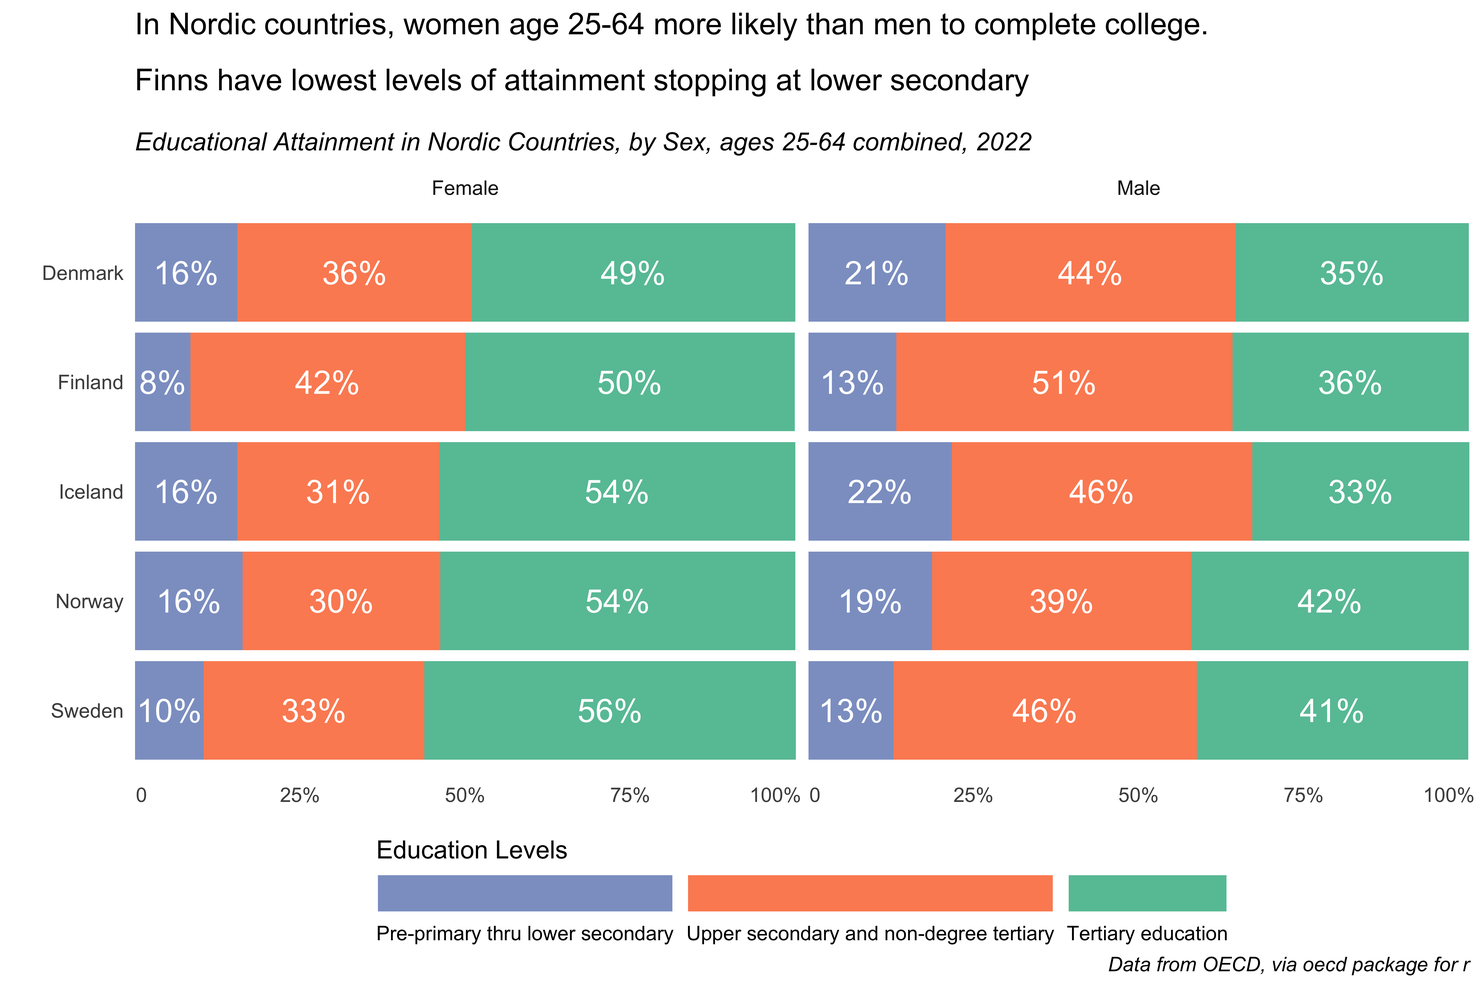
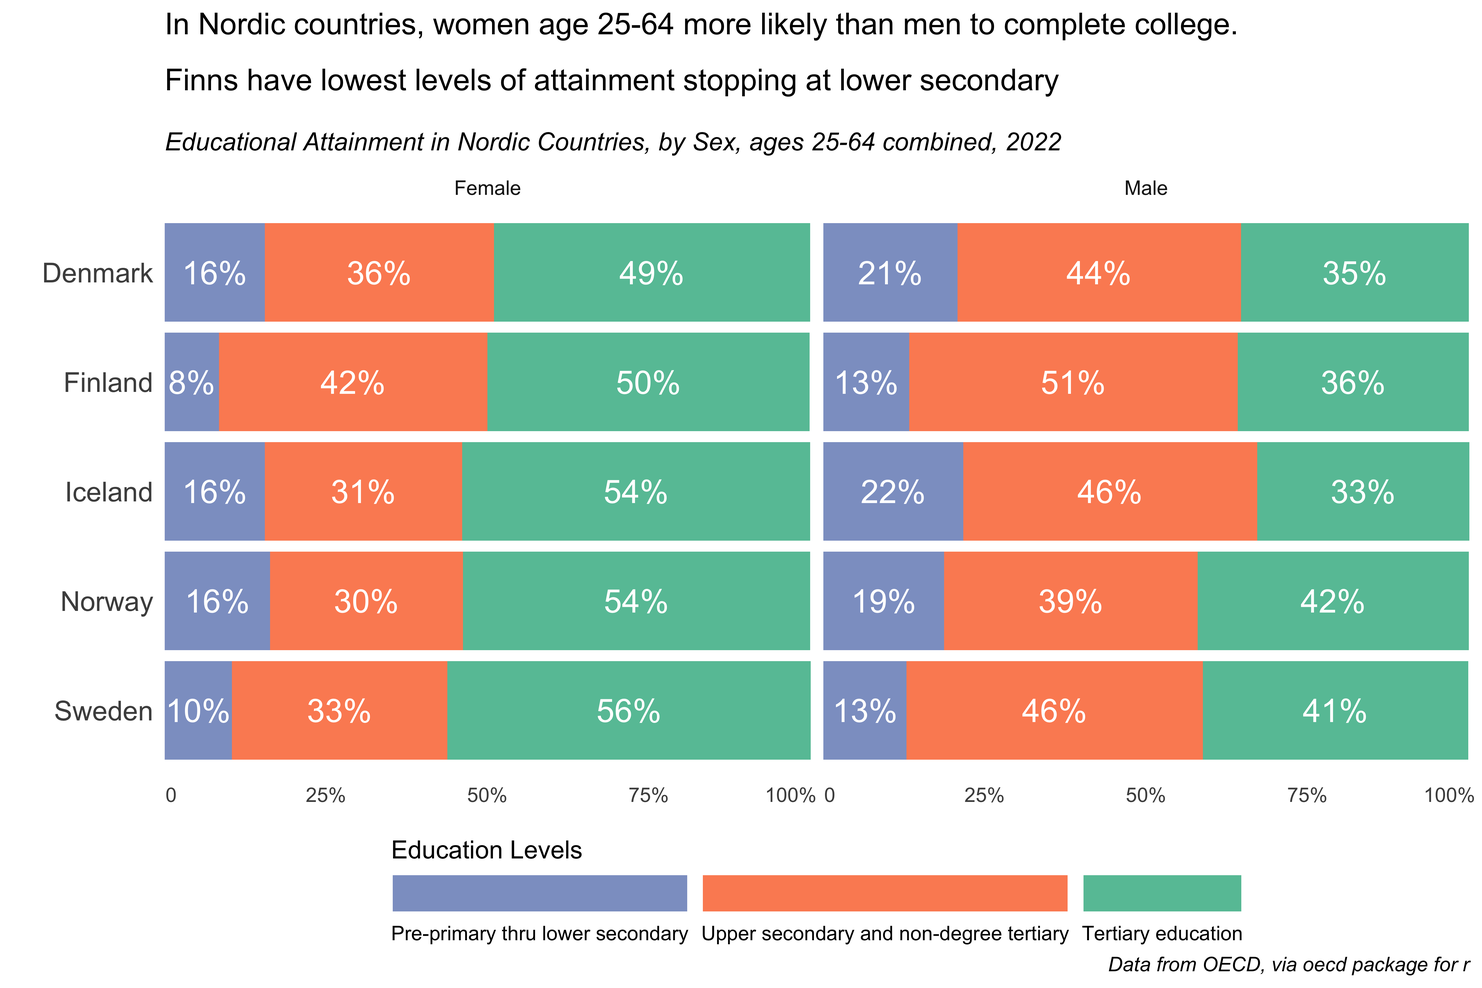
prompt 6 edits

diff --git a/_site/posts/30-day-chart-challenge-2024/index.html b/_site/posts/30-day-chart-challenge-2024/index.html
@@ -415,7 +415,7 @@ cookieconsent.run({
 <span id="cb3-5"><a href="#cb3-5" aria-hidden="true" tabindex="-1"></a>    <span class="fu">rename</span>(<span class="at">year =</span> TIME_PERIOD)</span>
 <span id="cb3-6"><a href="#cb3-6" aria-hidden="true" tabindex="-1"></a><span class="co">#&gt; </span></span>
 <span id="cb3-7"><a href="#cb3-7" aria-hidden="true" tabindex="-1"></a>indexed <span class="dv">0</span>B <span class="cf">in</span>  <span class="dv">0</span>s, <span class="dv">0</span>B<span class="sc">/</span>s</span>
-<span id="cb3-8"><a href="#cb3-8" aria-hidden="true" tabindex="-1"></a>indexed <span class="fl">1.00</span>TB <span class="cf">in</span>  <span class="dv">0</span>s, <span class="fl">2.51</span>PB<span class="sc">/</span>s</span>
+<span id="cb3-8"><a href="#cb3-8" aria-hidden="true" tabindex="-1"></a>indexed <span class="fl">1.00</span>TB <span class="cf">in</span>  <span class="dv">0</span>s, <span class="fl">2.62</span>PB<span class="sc">/</span>s</span>
 <span id="cb3-9"><a href="#cb3-9" aria-hidden="true" tabindex="-1"></a>                                                                              </span>
 <span id="cb3-10"><a href="#cb3-10" aria-hidden="true" tabindex="-1"></a></span>
 <span id="cb3-11"><a href="#cb3-11" aria-hidden="true" tabindex="-1"></a><span class="co"># make the plots</span></span>
@@ -805,53 +805,57 @@ cookieconsent.run({
 <span id="cb8-18"><a href="#cb8-18" aria-hidden="true" tabindex="-1"></a></span>
 <span id="cb8-19"><a href="#cb8-19" aria-hidden="true" tabindex="-1"></a><span class="co"># get metadata - helpful to create labels for factors.</span></span>
 <span id="cb8-20"><a href="#cb8-20" aria-hidden="true" tabindex="-1"></a><span class="co"># see package documentation on github </span></span>
-<span id="cb8-21"><a href="#cb8-21" aria-hidden="true" tabindex="-1"></a>oecd_metadata <span class="ot">&lt;-</span> <span class="fu">get_data_structure</span>(edattdata)</span>
-<span id="cb8-22"><a href="#cb8-22" aria-hidden="true" tabindex="-1"></a></span>
-<span id="cb8-23"><a href="#cb8-23" aria-hidden="true" tabindex="-1"></a><span class="co"># gets labels for country codes</span></span>
-<span id="cb8-24"><a href="#cb8-24" aria-hidden="true" tabindex="-1"></a>datalabs_ct <span class="ot">&lt;-</span> oecd_metadata<span class="sc">$</span>CL_REGIONAL <span class="sc">%&gt;%</span></span>
-<span id="cb8-25"><a href="#cb8-25" aria-hidden="true" tabindex="-1"></a>    <span class="fu">rename</span>(<span class="at">COUNTRY =</span> id)</span>
-<span id="cb8-26"><a href="#cb8-26" aria-hidden="true" tabindex="-1"></a></span>
-<span id="cb8-27"><a href="#cb8-27" aria-hidden="true" tabindex="-1"></a><span class="co"># keep only necessary vars, change some to factors &amp; add labels</span></span>
-<span id="cb8-28"><a href="#cb8-28" aria-hidden="true" tabindex="-1"></a>oecd <span class="ot">&lt;-</span> oecd1 <span class="sc">%&gt;%</span></span>
-<span id="cb8-29"><a href="#cb8-29" aria-hidden="true" tabindex="-1"></a>    <span class="fu">mutate</span>(<span class="at">EDUCATION_LEV =</span></span>
-<span id="cb8-30"><a href="#cb8-30" aria-hidden="true" tabindex="-1"></a>        <span class="fu">factor</span>(EDUCATION_LEV,</span>
-<span id="cb8-31"><a href="#cb8-31" aria-hidden="true" tabindex="-1"></a>            <span class="at">levels =</span> <span class="fu">c</span>(<span class="st">"ISCED11_0T2"</span>, <span class="st">"ISCED11_3_4"</span>, <span class="st">"ISCED11_5T8"</span>),</span>
-<span id="cb8-32"><a href="#cb8-32" aria-hidden="true" tabindex="-1"></a>            <span class="at">labels =</span> <span class="fu">c</span>(<span class="st">"Pre-primary thru lower secondary"</span>,</span>
-<span id="cb8-33"><a href="#cb8-33" aria-hidden="true" tabindex="-1"></a>                        <span class="st">"Upper secondary and non-degree tertiary"</span>, <span class="st">"Tertiary education"</span>))) <span class="sc">%&gt;%</span></span>
-<span id="cb8-34"><a href="#cb8-34" aria-hidden="true" tabindex="-1"></a>    <span class="fu">mutate</span>(<span class="at">SEX =</span> <span class="fu">case_when</span>(SEX <span class="sc">==</span> <span class="st">"M"</span> <span class="sc">~</span> <span class="st">"Male"</span>, SEX <span class="sc">==</span> <span class="st">"F"</span> <span class="sc">~</span> <span class="st">"Female"</span>)) <span class="sc">%&gt;%</span></span>
-<span id="cb8-35"><a href="#cb8-35" aria-hidden="true" tabindex="-1"></a>    <span class="fu">mutate</span>(<span class="at">pct_attain2 =</span> <span class="fu">as.numeric</span>(ObsValue)) <span class="sc">%&gt;%</span></span>
-<span id="cb8-36"><a href="#cb8-36" aria-hidden="true" tabindex="-1"></a>    <span class="fu">mutate</span>(<span class="at">pct_attain =</span> pct_attain2 <span class="sc">/</span> <span class="dv">100</span>) <span class="sc">%&gt;%</span></span>
-<span id="cb8-37"><a href="#cb8-37" aria-hidden="true" tabindex="-1"></a>    <span class="co"># join to have labels instead of country abbrvs</span></span>
-<span id="cb8-38"><a href="#cb8-38" aria-hidden="true" tabindex="-1"></a>    <span class="fu">left_join</span>(datalabs_ct) <span class="sc">%&gt;%</span></span>
-<span id="cb8-39"><a href="#cb8-39" aria-hidden="true" tabindex="-1"></a>    <span class="fu">select</span>(<span class="at">country =</span> label,  <span class="at">year =</span> TIME_PERIOD, SEX, EDUCATION_LEV, pct_attain, pct_attain2) <span class="sc">%&gt;%</span></span>
-<span id="cb8-40"><a href="#cb8-40" aria-hidden="true" tabindex="-1"></a>    <span class="fu">clean_names</span>()</span>
-<span id="cb8-41"><a href="#cb8-41" aria-hidden="true" tabindex="-1"></a></span>
-<span id="cb8-42"><a href="#cb8-42" aria-hidden="true" tabindex="-1"></a><span class="do">## chart...horizontal stacked bar</span></span>
-<span id="cb8-43"><a href="#cb8-43" aria-hidden="true" tabindex="-1"></a>oecd <span class="sc">%&gt;%</span></span>
-<span id="cb8-44"><a href="#cb8-44" aria-hidden="true" tabindex="-1"></a>    <span class="fu">filter</span>(year <span class="sc">==</span> <span class="st">"2022"</span>) <span class="sc">%&gt;%</span></span>
-<span id="cb8-45"><a href="#cb8-45" aria-hidden="true" tabindex="-1"></a>    <span class="fu">ggplot</span>(<span class="fu">aes</span>(pct_attain, <span class="fu">fct_rev</span>(country), <span class="at">fill =</span> <span class="fu">fct_rev</span>(education_lev))) <span class="sc">+</span></span>
-<span id="cb8-46"><a href="#cb8-46" aria-hidden="true" tabindex="-1"></a>    <span class="fu">geom_bar</span>(<span class="at">stat =</span> <span class="st">"identity"</span>) <span class="sc">+</span></span>
-<span id="cb8-47"><a href="#cb8-47" aria-hidden="true" tabindex="-1"></a>    <span class="fu">scale_x_continuous</span>(<span class="at">expand =</span> <span class="fu">c</span>(<span class="dv">0</span>,<span class="dv">0</span>),</span>
-<span id="cb8-48"><a href="#cb8-48" aria-hidden="true" tabindex="-1"></a>                <span class="at">breaks =</span> <span class="fu">c</span>(.<span class="dv">01</span>, <span class="fl">0.25</span>, <span class="fl">0.50</span>, <span class="fl">0.75</span>, .<span class="dv">97</span>),</span>
-<span id="cb8-49"><a href="#cb8-49" aria-hidden="true" tabindex="-1"></a>                <span class="at">labels =</span> <span class="fu">c</span>(<span class="st">"0"</span>, <span class="st">"25%"</span>, <span class="st">"50%"</span>, <span class="st">"75%"</span>, <span class="st">"100%"</span>)) <span class="sc">+</span></span>
-<span id="cb8-50"><a href="#cb8-50" aria-hidden="true" tabindex="-1"></a>    <span class="fu">facet_wrap</span>(<span class="sc">~</span> sex, <span class="at">nrow =</span> <span class="dv">1</span>) <span class="sc">+</span></span>
-<span id="cb8-51"><a href="#cb8-51" aria-hidden="true" tabindex="-1"></a>    <span class="fu">geom_text</span>(<span class="fu">aes</span>(<span class="at">label =</span> scales<span class="sc">::</span><span class="fu">percent</span>(<span class="fu">round</span>(pct_attain , <span class="dv">2</span>))),</span>
-<span id="cb8-52"><a href="#cb8-52" aria-hidden="true" tabindex="-1"></a>                <span class="at">position =</span> <span class="fu">position_stack</span>(<span class="at">vjust =</span> <span class="fl">0.5</span>),</span>
-<span id="cb8-53"><a href="#cb8-53" aria-hidden="true" tabindex="-1"></a>                <span class="at">color=</span> <span class="st">"white"</span>, <span class="at">vjust =</span> <span class="fl">0.5</span>, <span class="at">size =</span> <span class="dv">5</span>) <span class="sc">+</span></span>
-<span id="cb8-54"><a href="#cb8-54" aria-hidden="true" tabindex="-1"></a>    <span class="fu">labs</span>(<span class="at">title =</span> <span class="st">"In Nordic countries, women age 25-64 more likely than men to complete college.&lt;br&gt;&lt;br&gt;</span></span>
-<span id="cb8-55"><a href="#cb8-55" aria-hidden="true" tabindex="-1"></a><span class="st">             Finns have lowest levels of attainment stopping at lower secondary"</span>,</span>
-<span id="cb8-56"><a href="#cb8-56" aria-hidden="true" tabindex="-1"></a>             <span class="at">subtitle =</span> <span class="st">"&lt;br&gt;*Educational Attainment in Nordic Countries, by Sex, ages 25-64 combined, 2022*"</span>,</span>
-<span id="cb8-57"><a href="#cb8-57" aria-hidden="true" tabindex="-1"></a>             <span class="at">caption =</span> <span class="st">"*Data from OECD, via oecd package for r*"</span>,</span>
-<span id="cb8-58"><a href="#cb8-58" aria-hidden="true" tabindex="-1"></a>             <span class="at">x =</span> <span class="st">""</span>, <span class="at">y =</span> <span class="st">""</span>) <span class="sc">+</span></span>
-<span id="cb8-59"><a href="#cb8-59" aria-hidden="true" tabindex="-1"></a>    <span class="fu">scale_fill_brewer</span>(<span class="at">palette =</span> <span class="st">"Set2"</span>) <span class="sc">+</span></span>
-<span id="cb8-60"><a href="#cb8-60" aria-hidden="true" tabindex="-1"></a>    <span class="fu">theme_minimal</span>() <span class="sc">+</span></span>
-<span id="cb8-61"><a href="#cb8-61" aria-hidden="true" tabindex="-1"></a>    <span class="fu">theme</span>(<span class="at">legend.position =</span> <span class="st">"bottom"</span>, <span class="at">legend.spacing.x =</span> <span class="fu">unit</span>(<span class="dv">0</span>, <span class="st">'cm'</span>),</span>
-<span id="cb8-62"><a href="#cb8-62" aria-hidden="true" tabindex="-1"></a>                <span class="at">legend.key.width =</span> <span class="fu">unit</span>(<span class="fl">1.5</span>, <span class="st">'cm'</span>), <span class="at">legend.margin=</span><span class="fu">margin</span>(<span class="sc">-</span><span class="dv">10</span>, <span class="dv">0</span>, <span class="dv">0</span>, <span class="dv">0</span>),</span>
-<span id="cb8-63"><a href="#cb8-63" aria-hidden="true" tabindex="-1"></a>                <span class="at">plot.title =</span> <span class="fu">element_markdown</span>(), <span class="at">plot.subtitle =</span> <span class="fu">element_markdown</span>(),</span>
-<span id="cb8-64"><a href="#cb8-64" aria-hidden="true" tabindex="-1"></a>                <span class="at">plot.caption =</span> <span class="fu">element_markdown</span>(),</span>
-<span id="cb8-65"><a href="#cb8-65" aria-hidden="true" tabindex="-1"></a>                <span class="at">panel.grid.major =</span> <span class="fu">element_blank</span>(), <span class="at">panel.grid.minor =</span> <span class="fu">element_blank</span>()) <span class="sc">+</span></span>
-<span id="cb8-66"><a href="#cb8-66" aria-hidden="true" tabindex="-1"></a>    <span class="fu">guides</span>(<span class="at">fill =</span> <span class="fu">guide_legend</span>(<span class="at">label.position =</span> <span class="st">"bottom"</span>, <span class="at">reverse =</span> <span class="cn">TRUE</span>,</span>
-<span id="cb8-67"><a href="#cb8-67" aria-hidden="true" tabindex="-1"></a>                <span class="at">title =</span> <span class="st">"Education Levels"</span>, <span class="at">title.position =</span> <span class="st">"top"</span>))</span></code><button title="Copy to Clipboard" class="code-copy-button"><i class="bi"></i></button></pre></div>
+<span id="cb8-21"><a href="#cb8-21" aria-hidden="true" tabindex="-1"></a><span class="co"># commented out here to speed up rendering of post html file...this takes a while to download</span></span>
+<span id="cb8-22"><a href="#cb8-22" aria-hidden="true" tabindex="-1"></a>   <span class="co"># oecd_metadata &lt;- get_data_structure(edattdata)</span></span>
+<span id="cb8-23"><a href="#cb8-23" aria-hidden="true" tabindex="-1"></a></span>
+<span id="cb8-24"><a href="#cb8-24" aria-hidden="true" tabindex="-1"></a><span class="co"># gets labels for country codes...this step commented out, data loading from local file.</span></span>
+<span id="cb8-25"><a href="#cb8-25" aria-hidden="true" tabindex="-1"></a><span class="co"># datalabs_ct &lt;- oecd_metadata$CL_REGIONAL %&gt;%</span></span>
+<span id="cb8-26"><a href="#cb8-26" aria-hidden="true" tabindex="-1"></a><span class="co">#   rename(COUNTRY = id)</span></span>
+<span id="cb8-27"><a href="#cb8-27" aria-hidden="true" tabindex="-1"></a></span>
+<span id="cb8-28"><a href="#cb8-28" aria-hidden="true" tabindex="-1"></a>datalabs_ct <span class="ot">&lt;-</span> <span class="fu">readRDS</span>(<span class="st">"~/Data/r/30 Day Chart Challenge/2024/data/oecd_datalabs_ct.rds"</span>) </span>
+<span id="cb8-29"><a href="#cb8-29" aria-hidden="true" tabindex="-1"></a></span>
+<span id="cb8-30"><a href="#cb8-30" aria-hidden="true" tabindex="-1"></a><span class="co"># keep only necessary vars, change some to factors &amp; add labels</span></span>
+<span id="cb8-31"><a href="#cb8-31" aria-hidden="true" tabindex="-1"></a>oecd <span class="ot">&lt;-</span> oecd1 <span class="sc">%&gt;%</span></span>
+<span id="cb8-32"><a href="#cb8-32" aria-hidden="true" tabindex="-1"></a>    <span class="fu">mutate</span>(<span class="at">EDUCATION_LEV =</span></span>
+<span id="cb8-33"><a href="#cb8-33" aria-hidden="true" tabindex="-1"></a>        <span class="fu">factor</span>(EDUCATION_LEV,</span>
+<span id="cb8-34"><a href="#cb8-34" aria-hidden="true" tabindex="-1"></a>            <span class="at">levels =</span> <span class="fu">c</span>(<span class="st">"ISCED11_0T2"</span>, <span class="st">"ISCED11_3_4"</span>, <span class="st">"ISCED11_5T8"</span>),</span>
+<span id="cb8-35"><a href="#cb8-35" aria-hidden="true" tabindex="-1"></a>            <span class="at">labels =</span> <span class="fu">c</span>(<span class="st">"Pre-primary thru lower secondary"</span>,</span>
+<span id="cb8-36"><a href="#cb8-36" aria-hidden="true" tabindex="-1"></a>                        <span class="st">"Upper secondary and non-degree tertiary"</span>, <span class="st">"Tertiary education"</span>))) <span class="sc">%&gt;%</span></span>
+<span id="cb8-37"><a href="#cb8-37" aria-hidden="true" tabindex="-1"></a>    <span class="fu">mutate</span>(<span class="at">SEX =</span> <span class="fu">case_when</span>(SEX <span class="sc">==</span> <span class="st">"M"</span> <span class="sc">~</span> <span class="st">"Male"</span>, SEX <span class="sc">==</span> <span class="st">"F"</span> <span class="sc">~</span> <span class="st">"Female"</span>)) <span class="sc">%&gt;%</span></span>
+<span id="cb8-38"><a href="#cb8-38" aria-hidden="true" tabindex="-1"></a>    <span class="fu">mutate</span>(<span class="at">pct_attain2 =</span> <span class="fu">as.numeric</span>(ObsValue)) <span class="sc">%&gt;%</span></span>
+<span id="cb8-39"><a href="#cb8-39" aria-hidden="true" tabindex="-1"></a>    <span class="fu">mutate</span>(<span class="at">pct_attain =</span> pct_attain2 <span class="sc">/</span> <span class="dv">100</span>) <span class="sc">%&gt;%</span></span>
+<span id="cb8-40"><a href="#cb8-40" aria-hidden="true" tabindex="-1"></a>    <span class="co"># join to have labels instead of country abbrvs</span></span>
+<span id="cb8-41"><a href="#cb8-41" aria-hidden="true" tabindex="-1"></a>    <span class="fu">left_join</span>(datalabs_ct) <span class="sc">%&gt;%</span></span>
+<span id="cb8-42"><a href="#cb8-42" aria-hidden="true" tabindex="-1"></a>    <span class="fu">select</span>(<span class="at">country =</span> label,  <span class="at">year =</span> TIME_PERIOD, SEX, EDUCATION_LEV, pct_attain, pct_attain2) <span class="sc">%&gt;%</span></span>
+<span id="cb8-43"><a href="#cb8-43" aria-hidden="true" tabindex="-1"></a>    <span class="fu">clean_names</span>()</span>
+<span id="cb8-44"><a href="#cb8-44" aria-hidden="true" tabindex="-1"></a></span>
+<span id="cb8-45"><a href="#cb8-45" aria-hidden="true" tabindex="-1"></a><span class="do">## chart...horizontal stacked bar</span></span>
+<span id="cb8-46"><a href="#cb8-46" aria-hidden="true" tabindex="-1"></a>oecd <span class="sc">%&gt;%</span></span>
+<span id="cb8-47"><a href="#cb8-47" aria-hidden="true" tabindex="-1"></a>    <span class="fu">filter</span>(year <span class="sc">==</span> <span class="st">"2022"</span>) <span class="sc">%&gt;%</span></span>
+<span id="cb8-48"><a href="#cb8-48" aria-hidden="true" tabindex="-1"></a>    <span class="fu">ggplot</span>(<span class="fu">aes</span>(pct_attain, <span class="fu">fct_rev</span>(country), <span class="at">fill =</span> <span class="fu">fct_rev</span>(education_lev))) <span class="sc">+</span></span>
+<span id="cb8-49"><a href="#cb8-49" aria-hidden="true" tabindex="-1"></a>    <span class="fu">geom_bar</span>(<span class="at">stat =</span> <span class="st">"identity"</span>) <span class="sc">+</span></span>
+<span id="cb8-50"><a href="#cb8-50" aria-hidden="true" tabindex="-1"></a>    <span class="fu">scale_x_continuous</span>(<span class="at">expand =</span> <span class="fu">c</span>(<span class="dv">0</span>,<span class="dv">0</span>),</span>
+<span id="cb8-51"><a href="#cb8-51" aria-hidden="true" tabindex="-1"></a>                <span class="at">breaks =</span> <span class="fu">c</span>(.<span class="dv">01</span>, <span class="fl">0.25</span>, <span class="fl">0.50</span>, <span class="fl">0.75</span>, .<span class="dv">97</span>),</span>
+<span id="cb8-52"><a href="#cb8-52" aria-hidden="true" tabindex="-1"></a>                <span class="at">labels =</span> <span class="fu">c</span>(<span class="st">"0"</span>, <span class="st">"25%"</span>, <span class="st">"50%"</span>, <span class="st">"75%"</span>, <span class="st">"100%"</span>)) <span class="sc">+</span></span>
+<span id="cb8-53"><a href="#cb8-53" aria-hidden="true" tabindex="-1"></a>    <span class="fu">facet_wrap</span>(<span class="sc">~</span> sex, <span class="at">nrow =</span> <span class="dv">1</span>) <span class="sc">+</span></span>
+<span id="cb8-54"><a href="#cb8-54" aria-hidden="true" tabindex="-1"></a>    <span class="fu">geom_text</span>(<span class="fu">aes</span>(<span class="at">label =</span> scales<span class="sc">::</span><span class="fu">percent</span>(<span class="fu">round</span>(pct_attain , <span class="dv">2</span>))),</span>
+<span id="cb8-55"><a href="#cb8-55" aria-hidden="true" tabindex="-1"></a>                <span class="at">position =</span> <span class="fu">position_stack</span>(<span class="at">vjust =</span> <span class="fl">0.5</span>),</span>
+<span id="cb8-56"><a href="#cb8-56" aria-hidden="true" tabindex="-1"></a>                <span class="at">color=</span> <span class="st">"white"</span>, <span class="at">vjust =</span> <span class="fl">0.5</span>, <span class="at">size =</span> <span class="dv">5</span>) <span class="sc">+</span></span>
+<span id="cb8-57"><a href="#cb8-57" aria-hidden="true" tabindex="-1"></a>    <span class="fu">labs</span>(<span class="at">title =</span> <span class="st">"In Nordic countries, women age 25-64 more likely than men to complete college.&lt;br&gt;&lt;br&gt;</span></span>
+<span id="cb8-58"><a href="#cb8-58" aria-hidden="true" tabindex="-1"></a><span class="st">             Finns have lowest levels of attainment stopping at lower secondary"</span>,</span>
+<span id="cb8-59"><a href="#cb8-59" aria-hidden="true" tabindex="-1"></a>             <span class="at">subtitle =</span> <span class="st">"&lt;br&gt;*Educational Attainment in Nordic Countries, by Sex, ages 25-64 combined, 2022*"</span>,</span>
+<span id="cb8-60"><a href="#cb8-60" aria-hidden="true" tabindex="-1"></a>             <span class="at">caption =</span> <span class="st">"*Data from OECD, via oecd package for r*"</span>,</span>
+<span id="cb8-61"><a href="#cb8-61" aria-hidden="true" tabindex="-1"></a>             <span class="at">x =</span> <span class="st">""</span>, <span class="at">y =</span> <span class="st">""</span>) <span class="sc">+</span></span>
+<span id="cb8-62"><a href="#cb8-62" aria-hidden="true" tabindex="-1"></a>    <span class="fu">scale_fill_brewer</span>(<span class="at">palette =</span> <span class="st">"Set2"</span>) <span class="sc">+</span></span>
+<span id="cb8-63"><a href="#cb8-63" aria-hidden="true" tabindex="-1"></a>    <span class="fu">theme_minimal</span>() <span class="sc">+</span></span>
+<span id="cb8-64"><a href="#cb8-64" aria-hidden="true" tabindex="-1"></a>    <span class="fu">theme</span>(<span class="at">legend.position =</span> <span class="st">"bottom"</span>, <span class="at">legend.spacing.x =</span> <span class="fu">unit</span>(<span class="dv">0</span>, <span class="st">'cm'</span>),</span>
+<span id="cb8-65"><a href="#cb8-65" aria-hidden="true" tabindex="-1"></a>                <span class="at">legend.key.width =</span> <span class="fu">unit</span>(<span class="fl">1.5</span>, <span class="st">'cm'</span>), <span class="at">legend.margin=</span><span class="fu">margin</span>(<span class="sc">-</span><span class="dv">10</span>, <span class="dv">0</span>, <span class="dv">0</span>, <span class="dv">0</span>),</span>
+<span id="cb8-66"><a href="#cb8-66" aria-hidden="true" tabindex="-1"></a>                <span class="at">plot.title =</span> <span class="fu">element_markdown</span>(), <span class="at">plot.subtitle =</span> <span class="fu">element_markdown</span>(),</span>
+<span id="cb8-67"><a href="#cb8-67" aria-hidden="true" tabindex="-1"></a>                <span class="at">plot.caption =</span> <span class="fu">element_markdown</span>(),</span>
+<span id="cb8-68"><a href="#cb8-68" aria-hidden="true" tabindex="-1"></a>                <span class="at">axis.text.y =</span> <span class="fu">element_text</span>(<span class="at">size =</span> <span class="dv">12</span>),</span>
+<span id="cb8-69"><a href="#cb8-69" aria-hidden="true" tabindex="-1"></a>                <span class="at">panel.grid.major =</span> <span class="fu">element_blank</span>(), <span class="at">panel.grid.minor =</span> <span class="fu">element_blank</span>()) <span class="sc">+</span></span>
+<span id="cb8-70"><a href="#cb8-70" aria-hidden="true" tabindex="-1"></a>    <span class="fu">guides</span>(<span class="at">fill =</span> <span class="fu">guide_legend</span>(<span class="at">label.position =</span> <span class="st">"bottom"</span>, <span class="at">reverse =</span> <span class="cn">TRUE</span>,</span>
+<span id="cb8-71"><a href="#cb8-71" aria-hidden="true" tabindex="-1"></a>                <span class="at">title =</span> <span class="st">"Education Levels"</span>, <span class="at">title.position =</span> <span class="st">"top"</span>))</span></code><button title="Copy to Clipboard" class="code-copy-button"><i class="bi"></i></button></pre></div>
 </details>
 <div class="cell-output-display">
 <div>
@@ -1299,7 +1303,7 @@ window.document.addEventListener("DOMContentLoaded", function (event) {
     </div>
   </div>
 </footer>
-<script>var lightboxQuarto = GLightbox({"selector":".lightbox","closeEffect":"zoom","descPosition":"bottom","loop":false,"openEffect":"zoom"});
+<script>var lightboxQuarto = GLightbox({"closeEffect":"zoom","descPosition":"bottom","selector":".lightbox","loop":false,"openEffect":"zoom"});
 window.onload = () => {
   lightboxQuarto.on('slide_before_load', (data) => {
     const { slideIndex, slideNode, slideConfig, player, trigger } = data;

diff --git a/_site/index.html b/_site/index.html
@@ -258,7 +258,7 @@ window.Quarto = {
   </div>
 </div>
 <div class="list quarto-listing-default">
-<div class="quarto-post image-right" data-index="0" data-categories="post,rstats,ggplot,dataviz,chartchallenge,tidytuesday,eurostat" data-listing-date-sort="1714082400000" data-listing-file-modified-sort="1714159442848" data-listing-date-modified-sort="NaN" data-listing-reading-time-sort="19" data-listing-word-count-sort="3612">
+<div class="quarto-post image-right" data-index="0" data-categories="post,rstats,ggplot,dataviz,chartchallenge,tidytuesday,eurostat" data-listing-date-sort="1714082400000" data-listing-file-modified-sort="1714161162311" data-listing-date-modified-sort="NaN" data-listing-reading-time-sort="19" data-listing-word-count-sort="3652">
 <div class="thumbnail">
 <p><a href="./posts/30-day-chart-challenge-2024/index.html" class="no-external"></a></p><a href="./posts/30-day-chart-challenge-2024/index.html" class="no-external">
 <p><img src="./posts/30-day-chart-challenge-2024/prompts.png" class="thumbnail-image"></p>
